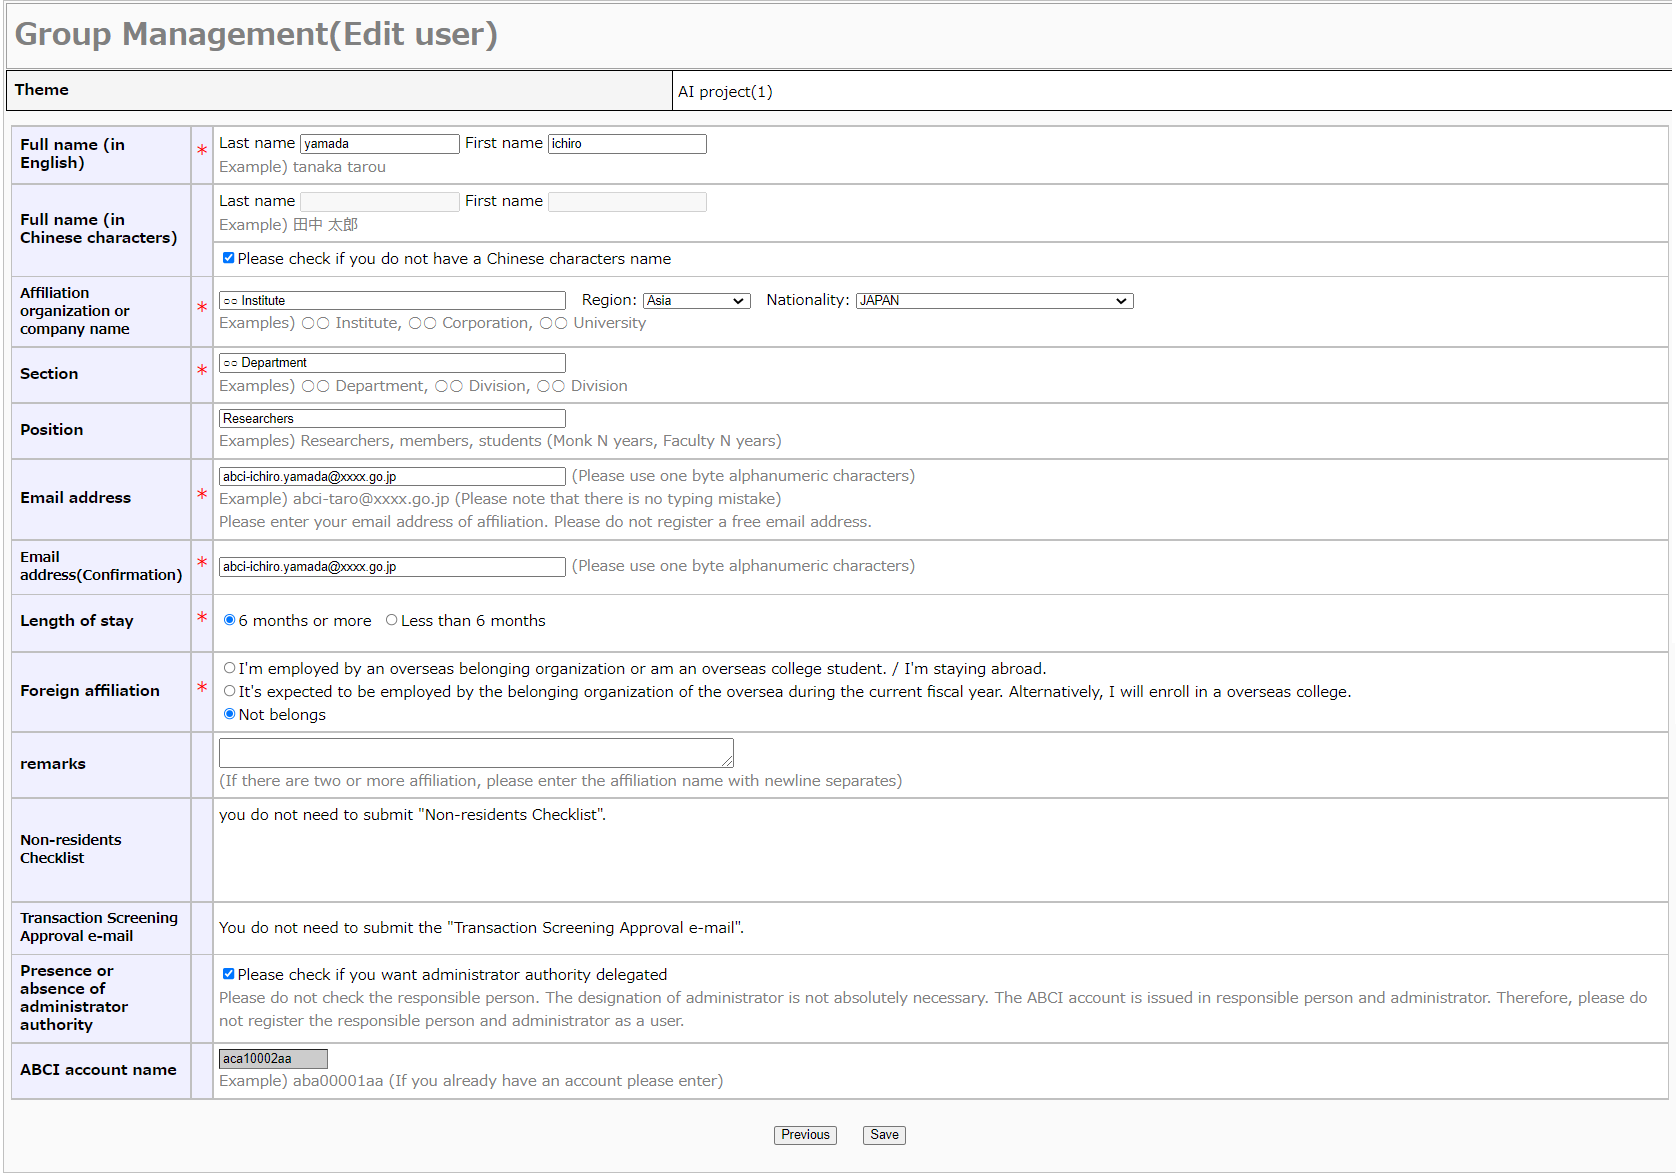
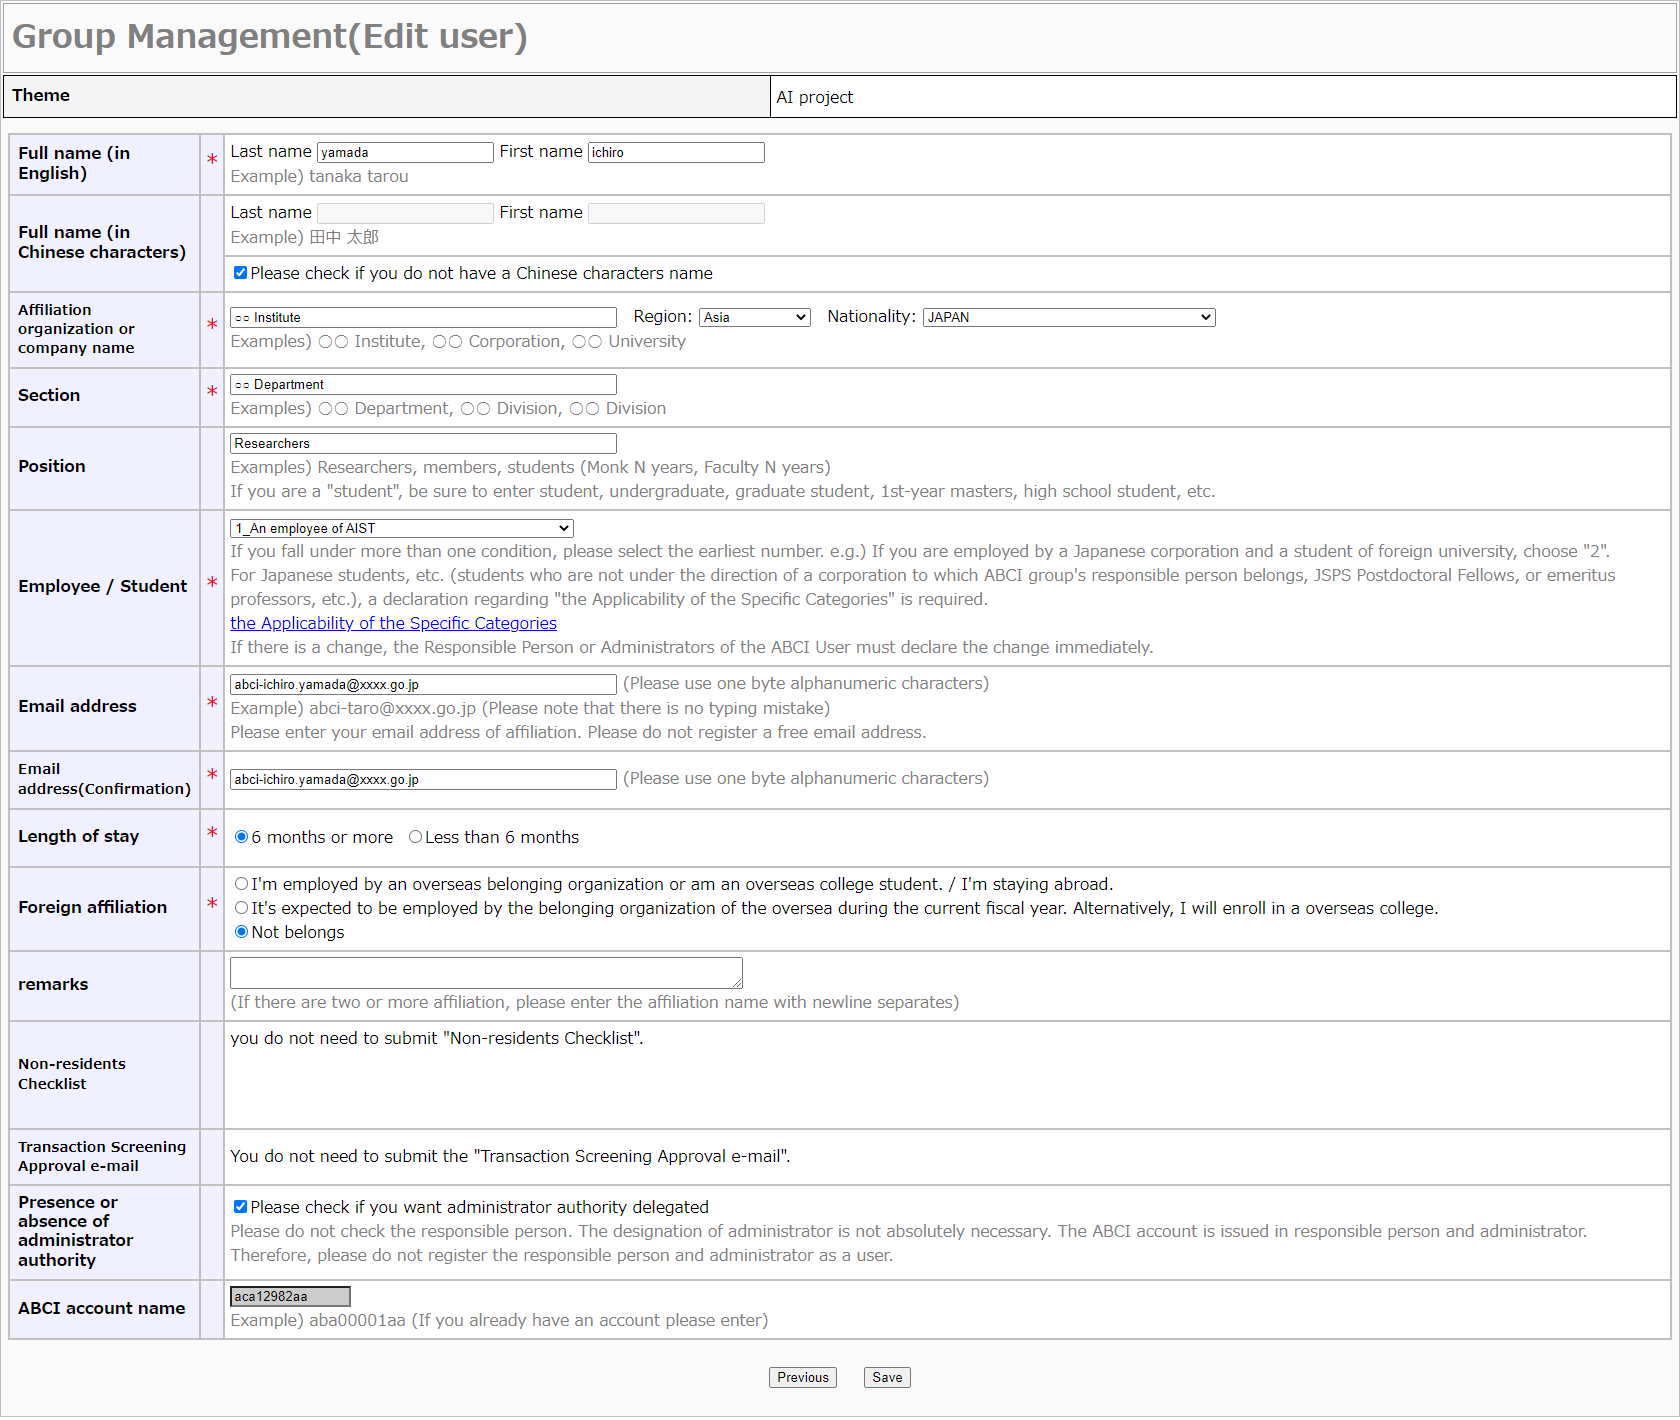
modified abci-user-manual for portal

Changed region(s): [[0.0, 0.0, 1.0, 0.9796], [0.9917, 0.9796, 1.0, 1.0], [0.0, 0.9796, 0.031, 1.0]]

diff --git a/portal/ja/docs/01.md b/portal/ja/docs/01.md
@@ -49,6 +49,11 @@
 
 グループに参加する利用者について各項目を入力して[完了]をクリックします。  
 「*」マークが付いているものは必須項目です。  
+
+「雇用・学生」が日本の学生等に相当する場合は、特定類型該当性に関する申告を選択してください。  
+
+![[[Screenshot]]](img/1_05_B_2.png)
+
 国外の機関に所属している場合は、「国外所属機関」の該当する項目を選択してください。  
 非居住者チェックリストが必要な場合はアップロードしてください。
 
@@ -63,7 +68,10 @@ ABCIアカウントを取得済みの利用者を追加する場合は、[既存
 ![[[Screenshot]]](img/1_05_D.png)
 
 登録済みのABCIアカウント名とメールアドレスを入力して[完了]をクリックします。  
-利用管理者として登録する場合は「管理者権限の有無」をチェックしてください。
+利用管理者として登録する場合は「管理者権限の有無」をチェックしてください。  
+
+!!! note
+    登録情報に変更・不足がある場合は「戻る」ボタンを押し、続いて「追加」ボタンより必要な情報を全て入力して申請してください。  
 
 ![[[Screenshot]]](img/1_05_E.png)
 
@@ -83,6 +91,20 @@ ABCIアカウントを取得済みの利用者を追加する場合は、[既存
 一覧上の[削除]をクリックすると確認ダイアログが表示されます。削除する場合は[OK]をクリックします。
 
 ![[[Screenshot]]](img/1_05_H.png)
+
+「雇用・学生」の項目が「日本の学生等」に該当する利用者が含まれる場合、「特定類型該当性に関する申告書」の提出をお願いします。  
+リンク先のページよりダウンロードしwordファイルを編集し、アップロードしてください。  
+
+!!! note
+    「特定類型該当性に関する申告」の説明ページは、下記のURLにて参照可能です。提出用ファイルもダウンロードいただけます。  
+    <https://abci.ai/news/2022/05/09/ja_deemed_export.html>  
+
+![[[Screenshot]]](img/1_05_I.png)
+
+
+!!! note
+    「特定類型該当性に関する申告書」は、特定類型該当性の有無にかかわらず、ABCIグループ内のすべての「日本の学生等」の利用者が含まれていなければなりません。
+
 
 [次へ]をクリックすると確認画面に遷移します。
 

diff --git a/portal/en/docs/03.md b/portal/en/docs/03.md
@@ -170,6 +170,15 @@ When clicking the "Delete" button, you can delete the target user.
 To save your application temporarily, click the "Save temporarily" button.
 You can resume from the saved point by clicking the "Add user" button.  
 
+In the case of Japanese Student, etc., the "Declaration for the Applicability of the Specific Categories" must be submitted.
+
+!!! note
+    the Applicability of the Specific Categories  
+    <https://abci.ai/news/2022/05/09/ja_deemed_export.html>
+
+!!! warning
+    The previous uploaded file will be overridden and completely replaced. 
+
 When you finish to enter all additional users, click the "Apply" button.
 
 ![[[Screenshot]]](img/3_16.png)
@@ -315,6 +324,49 @@ Enter each items about the group, and click the "OK" button.
 
 When changing theme and overview is applied successfully, the message will be displayed.  
 When your application is approved, the applicant will be notified by e-mail.  
+
+
+### 3.5.10. In the case of Japanese Student, etc., the Declaration for the Applicability of the Specific Categories  
+
+Select the ABCI group from the list of group management, and click "In the case of Japanese Student, etc., the Declaration for the Applicability of the Specific Categories" button.
+
+![[[Screenshot]]](img/3_27_6.png)
+
+Click on the file name to download the current file.  
+Select the file to be replaced and click the "Execute" button.  
+
+![[[Screenshot]]](img/3_27_7.png)
+
+Click the "OK" button in the dialog box.  
+
+!!! warning
+    The previous uploaded file will be overridden and completely replaced.
+
+![[[Screenshot]]](img/3_27_8.png)
+
+### 3.5.11 Notification of Public Key Operation  
+
+When a public key is manipulated by a user who belongs to the group, a notification is sent to the usage administrator and above. The default is no notification.    
+Select the file to be replaced and click the "Notification of Public Key Operation" button.  
+
+![[[Screenshot]]](img/3_27_9.png)
+
+Click the "OK" button in the dialog box.  
+
+![[[Screenshot]]](img/3_27_10.png)
+
+On/Off is toggled by the same operation.  
+
+![[[Screenshot]]](img/3_27_11.png)
+
+### 3.5.12 History of Public Key Operation  
+
+Select the file to be replaced and click the "History of Public Key Operation" button.  
+
+![[[Screenshot]]](img/3_27_12.png)
+
+
+
 
 ## 3.6. Manage ABCI Cloud Storage {#manage-cloudstorage}
 

diff --git a/portal/en/docs/02.md b/portal/en/docs/02.md
@@ -17,11 +17,46 @@ If you cannot read numbers, click the "Reload" button to change the image.
 The URL for login will be notified to your e-mail address.
 Launch your favorite browser and copy/paste the URL.
 
+
+
+### 2.1.1. Declaration for the Applicability of the Specific Categories (for the first time in a fiscal year)
+
+!!! warning
+    You will not be able to use ABCI until your declaration is approved.  
+
+![[[Screenshot]]](img/2_02_A.png)
+
+Enter your ABCI account and a Special Temporary Password, and click the "Login" button.  
+
+!!! note
+    This is a Special Temporary Password for User login for Declaration for the Applicability of the Specific Categories.  
+
+![[[Screenshot]]](img/2_02_B.png)
+
+!!! note
+    the Applicability of the Specific Categories  
+    <https://abci.ai/news/2022/05/09/ja_deemed_export.html>
+
+Click the "Declare" button to change the image.
+
+![[[Screenshot]]](img/2_02_C.png)
+
+The URL for login will be notified to your e-mail address.
+Launch your favorite browser and copy/paste the URL.
+
+!!! note
+    If the URL expires, please access the ABCI User Portal and reissue the login URL.  
+
+### 2.1.2. First Login
+
 ![[[Screenshot]]](img/2_03.png)
 
 Enter your ABCI account and password, and click the "Login" button.  
 
-### 2.1.1. First Login
+!!! note
+    Please visit the following URL to login for the "Declaration for the Applicability of the Specific Categories" (for the first time in a fiscal year).  
+    A Special Temporary Password is issued, which is different from the normal login. Please be careful.  
+    If your password has expired, please "2.2. User Password Reissue".  
 
 ![[[Screenshot]]](img/2_04.png)
 
@@ -244,4 +279,27 @@ Click "To access key management" button on the screen.
 ![[[Screenshot]]](img/2_29.png)
 
 Access key management screen is displayed.
+
+
+## 2.9. Declaration for the Applicability of the Specific Categories
+
+Click the "Declaration for the Applicability of the Specific Categories" from the side menu.
+Please follow the instructions on the screen to make a declaration.  
+
+![[[Screenshot]]](img/2_30.png)
+
+!!! note
+    the Applicability of the Specific Categories  
+    <https://abci.ai/news/2022/05/09/ja_deemed_export.html>
+
+Click "Declare" button on the screen.
+
+![[[Screenshot]]](img/2_31.png)
+
+
+
+
+
+
+
 

diff --git a/portal/en/docs/01.md b/portal/en/docs/01.md
@@ -46,7 +46,11 @@ When clicking the "Add" button, screen for user input will be displayed.
 ![[[Screenshot]]](img/1_06.png)
 
 Enter each items about users who participate in the group, and click the "OK" button.
-The entry of "*" is mandatory.
+The entry of "*" is mandatory.  
+
+In the case of Student, etc. in Japan, a declaration regarding "Specific Category Applicability" must be selected.   
+
+![[[Screenshot]]](img/1_06_A.png)
 
 !!! note
     If ABCI account name is blank, a new account will be issued when application is approved.
@@ -60,6 +64,9 @@ To add a user who has already acquired an ABCI account, click the "Add an existi
 
 Enter the existing ABCI acount name and e-mail address and click the "OK" button.
 Check "Presence or absence of administrator authority" if you want administrator auhority delegated.
+
+!!! note
+    If there are any changes or missing items in the registration information, press the "Previous" button, then click the "Add" button and enter all the necessary information and apply.
 
 ![[[Screenshot]]](img/1_07_B.png)
 
@@ -79,6 +86,18 @@ When clicking the "Modify" button, you can modify the target user information.
 When clicking the "Delete" button, you can delete the target user.
 
 ![[[Screenshot]]](img/1_08.png)
+
+
+In the case of Japanese Student, etc., the "Declaration for the Applicability of the Specific Categories" must be submitted.  
+
+!!! note
+    the Applicability of the Specific Categories  
+    <https://abci.ai/news/2022/05/09/ja_deemed_export.html>  
+
+![[[Screenshot]]](img/1_08_A.png)
+
+!!! note
+    The declaration file must include all students in the ABCI Group.
 
 When clicking the "Next" button, screen for confirmation will be displayed.
 
